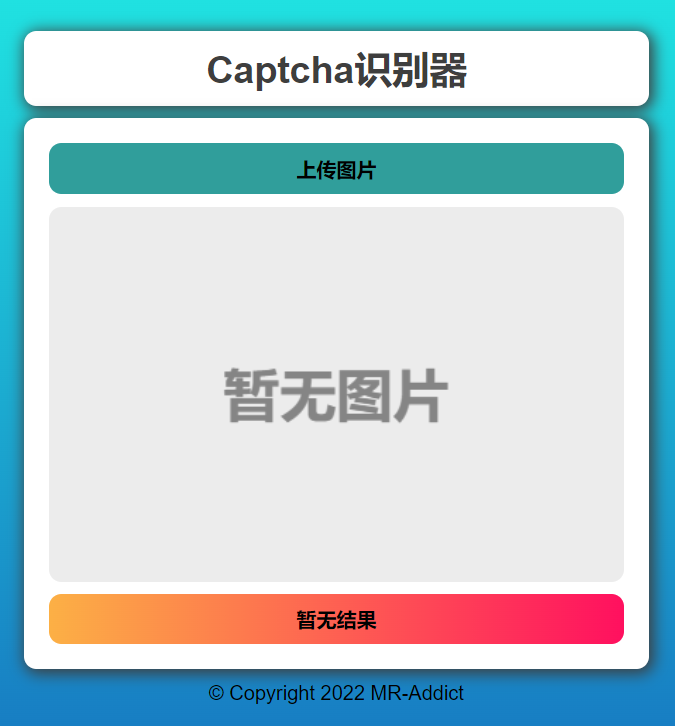
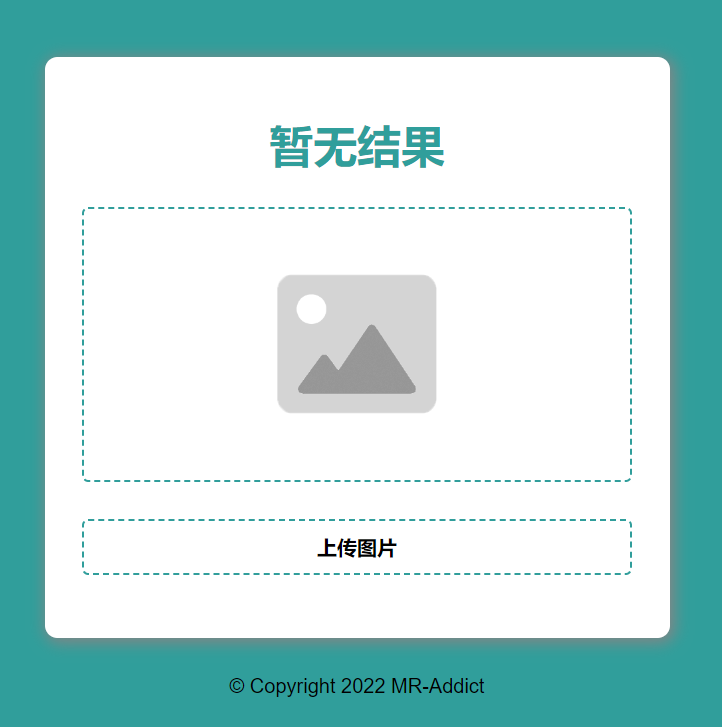
beautify pages

diff --git a/src/public/index.css b/src/public/index.css
@@ -10,14 +10,10 @@ html {
 }
 
 :root {
-  --pri-bcg: linear-gradient(to bottom, #21efe5, #166dbe);
-  --pri-warm: linear-gradient(to right, #fcb045, #ff105f);
-  --pri-yellow: #fcb045;
-  --pri-white: #ffffff;
-  --pri-blue: #1c3879;
+  --pri-bcg: #30bd90;
+  --pri-white: #fff;
   --pri-green: #309e9b;
-  --pri-dark-grey: #3e3e3e;
-  --pri-grey: #ececec;
+  --pri-grey: #858585;
 }
 
 /* body */
@@ -42,37 +38,20 @@ body {
   justify-content: center;
 }
 
-/* header */
-.header {
-  width: 100%;
-  padding: 1rem;
-  border-radius: 1rem;
-
-  background: var(--pri-white);
-  box-shadow: 0.2rem 0.2rem 1.2rem 0.2rem var(--pri-dark-grey);
-}
-
-.header h1 {
-  font-size: 3rem;
-  text-align: center;
-  font-weight: bolder;
-  color: var(--pri-dark-grey);
-}
-
-/* tab */
+/* main */
 .main {
   width: 100%;
-  padding: 2rem;
+  padding: 5rem 3rem;
   border-radius: 1rem;
 
-  gap: 1rem;
+  gap: 3rem;
   display: flex;
   flex-direction: column;
   align-items: center;
   justify-content: center;
 
   background: var(--pri-white);
-  box-shadow: 0.2rem 0.2rem 1.2rem 0.2rem var(--pri-dark-grey);
+  box-shadow: 0.2rem 0.2rem 1.2rem 0.2rem var(--pri-grey);
 }
 
 /* form */
@@ -90,10 +69,11 @@ body {
 
 .form label {
   width: 100%;
-  font-size: 1.6rem;
   padding: 1rem;
-  border-radius: 1rem;
-  background: var(--pri-green);
+  font-size: 1.6rem;
+  border-radius: 0.5rem;
+  border: solid 0.2rem var(--pri-green);
+  border-style: dashed;
 
   font-weight: bold;
   display: block;
@@ -104,24 +84,24 @@ body {
 /* result image */
 .main img {
   width: 100%;
-  height: 30rem;
-  padding: 1rem;
+  height: 22rem;
+  padding: 0.5rem;
   font-size: 1.6rem;
-  border-radius: 1rem;
+  border-radius: 0.5rem;
+  border: solid 0.2rem var(--pri-green);
+  border-style: dashed;
 
-  object-fit: contain;
-  background: var(--pri-grey);
+  object-fit: cover;
 }
 
 /* reusult paragraph */
 .main p {
   width: 100%;
   height: 4rem;
-  font-size: 1.6rem;
+  font-size: 3.5rem;
   font-weight: bold;
-
-  border-radius: 1rem;
-  background: var(--pri-warm);
+  border-radius: 0.5rem;
+  color: var(--pri-green);
 
   display: flex;
   flex-direction: column;
@@ -131,7 +111,7 @@ body {
 
 /* footer */
 footer {
-  margin: 1rem 0;
+  margin: 3rem 0;
   font-size: 1.6rem;
 }
 

diff --git a/src/public/index.html b/src/public/index.html
@@ -2,7 +2,7 @@
 <html lang="en">
   <head>
     <meta charset="UTF-8" />
-    <link rel="shortcut icon" href="favicon.png" type="image/x-icon" />
+    <link rel="shortcut icon" href="images/favicon.png" type="image/x-icon" />
     <meta http-equiv="X-UA-Compatible" content="IE=edge" />
     <meta name="viewport" content="width=device-width, initial-scale=1.0" />
     <link rel="stylesheet" href="index.css" />
@@ -11,24 +11,14 @@
   </head>
   <body>
     <div class="container">
-      <!-- header -->
-      <div class="header">
-        <h1>Captcha识别器</h1>
-      </div>
-      <!-- main body -->
       <div class="main">
-        <div class="form">
-          <label for="captcha_input">上传图片</label>
-          <input type="file" name="captcha" id="captcha_input" onchange="loadImage(event)" />
-        </div>
-        <img src="default.png" alt="captcha" onerror="img_error(event)" />
         <p>暂无结果</p>
+        <img src="images/default.png" alt="captcha" />
+        <div class="form">
+          <label for="captcha_input">点击上传</label>
+          <input type="file" name="captcha" id="captcha_input" onchange="handleUpload(event)" />
+        </div>
       </div>
     </div>
-    <script>
-      let footer = document.createElement("footer");
-      footer.innerHTML = `<footer">&copy; Copyright ${new Date().getFullYear()} MR-Addict</footer>`;
-      document.body.appendChild(footer);
-    </script>
   </body>
 </html>

diff --git a/src/public/index.js b/src/public/index.js
@@ -1,24 +1,24 @@
-// set image error image
-function img_error(event) {
-  event.target.src = "404.png";
-}
+// load footer
+window.onload = function () {
+  const footer = document.createElement("footer");
+  footer.innerHTML = `<footer">&copy; Copyright ${new Date().getFullYear()} MR-Addict</footer>`;
+  document.body.appendChild(footer);
+};
 
-// load image
-function loadImage(event) {
+// handle upload
+async function handleUpload(event) {
   const captcha = event.target.files[0];
   if (!captcha) return;
   const image = document.querySelector(".main img");
   image.src = URL.createObjectURL(captcha);
-  uploadImage(captcha);
-}
-
-// upload image
-function uploadImage(captcha) {
-  if (!captcha) return;
+  // fetch backend data
   const formData = new FormData();
   formData.append("captcha", captcha);
-  fetch("/", { method: "POST", body: formData })
-    .then((response) => response.json())
-    .then((response) => (document.querySelector(".main p").innerText = response.message))
-    .catch((error) => (document.querySelector(".main p").innerText = "识别失败"));
+  const respone = await fetch("/", { method: "POST", body: formData });
+  if (respone.ok) {
+    const message = await respone.json();
+    document.querySelector(".main p").innerText = message.message;
+  } else {
+    document.querySelector(".main p").innerText = "识别失败";
+  }
 }
